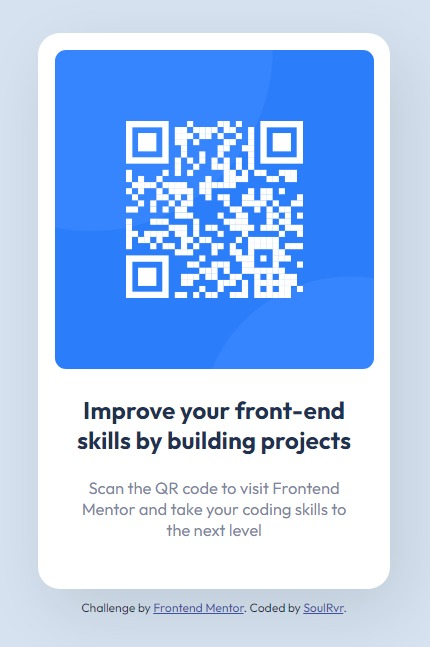
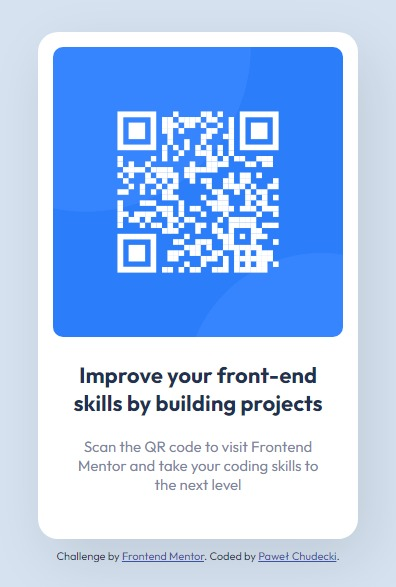
footer update

diff --git a/index.html b/index.html
@@ -27,12 +27,13 @@
       </div>
     </main>
     <footer>
-      <div class="attribution">
-        Challenge by
-        <a href="https://www.frontendmentor.io?ref=challenge" target="_blank"
-          >Frontend Mentor</a
-        >. Coded by <a href="#">SoulRvr</a>.
-      </div>
+      Challenge by
+      <a href="https://www.frontendmentor.io?ref=challenge" target="_blank"
+        >Frontend Mentor</a
+      >. Coded by
+      <a href="https://www.frontendmentor.io/profile/SoulRvr29"
+        >Paweł Chudecki</a
+      >.
     </footer>
   </body>
 </html>

diff --git a/style.css b/style.css
@@ -44,13 +44,13 @@ p {
   margin-bottom: 30px;
 }
 
-.attribution {
+footer {
   padding: 10px;
   font-size: 11px;
   text-align: center;
   color: hsl(218, 44%, 22%);
 }
 
-.attribution a {
+footer a {
   color: hsl(228, 45%, 44%);
 }
